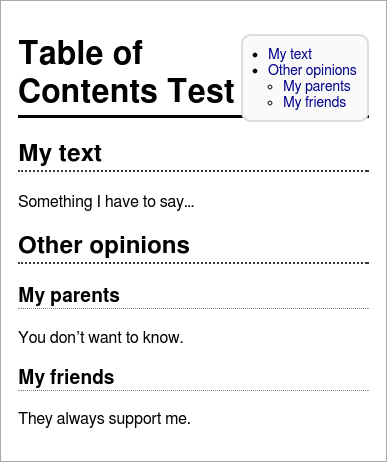
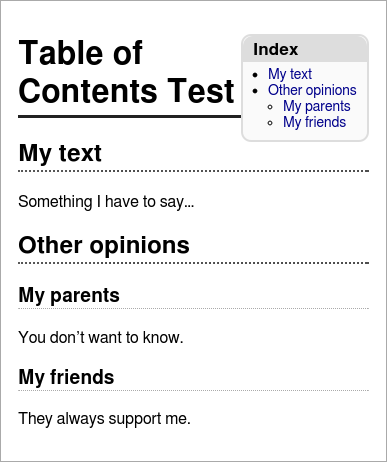
Add header to table of contents.

Changed region(s): [[0.031, 0.0606, 0.9612, 0.303], [0.6512, 0.303, 0.9302, 0.3333]]

diff --git a/src/doc/toc.html b/src/doc/toc.html
@@ -2,8 +2,10 @@
 <html lang="en">
   <head>
     <title>Table of Contents Test</title>
-    <meta charset="UTF-8" /><link rel="stylesheet" type="text/css" href="https://gitcdn.link/repo/alinex/node-report/master/var/src/style/default.css" /><link rel="stylesheet" type="text/css" href="https://cdn.rawgit.com/alinex/node-report/master/var/src/style/default.css" />  </head>
-  <body><div id="page"><p><ul class="table-of-contents">
+    <meta charset="UTF-8" />
+    <style type="text/css">html{background:#ddd;padding:20px}body{font-family:"Helvetica Neue",Helvetica,"Segoe UI",Arial,freesans,sans-serif,"Apple Color Emoji","Segoe UI Emoji","Segoe UI Symbol";font-size:16px;line-height:1.2;word-wrap:break-word}div#page{border:1px solid #aaa;box-shadow:0 8px 16px 0 rgba(0,0,0,0.4),0 12px 40px 0 rgba(0,0,0,0.4);max-width:800px;display:inline-block;background:#fff;padding:17px;overflow:auto}div#page > h1{margin-top:0}h1{border-bottom:3px solid #222;padding-bottom:5px}h2{border-bottom:2px dotted #222;padding-bottom:3px}h3{border-bottom:1px dotted #aaa;padding-bottom:2px}a{color:#00008b}dt{font-weight:bold;margin-top:8px}blockquote{border:1px solid #eee;border-radius:3px;border-left:5px solid color-blue;padding:15px;margin:0}img{vertical-align:middle}.emoji{height:1em}abbr,acronym{border-bottom:dotted 1px}table{border-collapse:collapse;border-spacing:0;display:block;width:100%;overflow:auto;word-break:normal;word-break:keep-all;}table th,table td{padding:6px 13px;border:1px solid #ddd}table th{background-color:rgba(0,0,0,0.04);font-weight:bold;border-bottom:3px solid #999}table tr{background-color:#fff;border-top:1px solid #ccc;}table tr :nth-child(2n){background-color:rgba(0,0,0,0.04)}code,tt{background-color:#fafafa;border-radius:4px;font-size:85%;margin:0;padding:.2em 0}pre{background-color:#fafafa;border-radius:10px;border:1px solid #a4a4a4;font-size:85%;margin:20px;padding:10px;counter-reset:line;}pre code,pre tt{background:none;}pre code:before,pre tt:before{counter-increment:line;content:counter(line);min-width:35px;display:block;float:left;text-align:right;padding-right:5px;color:#808080;-webkit-touch-callout:none;user-select:none;-webkit-user-select:none}pre.language{max-height:280px;padding-top:30px;}pre.language header{font-weight:bold;background:#fafafa;margin:-30px -10px 5px -10px;padding:5px 15px}pre.language.bash header,pre.language.coffeescript header,pre.language.js header,pre.language.sh header,pre.language.sql header{background:#f0ad4e}pre.language.json header,pre.language.yaml header{background:#61b961}pre.language.handlebars header,pre.language.markdown header{background:#76abca}.table-of-contents{border:2px solid #ddd;border-radius:10px;float:right;margin-top:0;padding:10px 10px 10px 25px;background:#fafafa;font-size:90%;}.table-of-contents header{font-weight:bold;font-size:120%;display:block;background:#ddd;margin:-10px -10px 4px -25px;border-top-left-radius:10px;border-top-right-radius:10px;padding:3px 10px}.table-of-contents ul{padding-left:15px}.table-of-contents a{text-decoration:none}div.detail,div.info,div.warning,div.alert{padding:30px 10px 6px 10px;margin:5px 0 8px 0;border-radius:3px;}div.detail >p,div.info >p,div.warning >p,div.alert >p{margin-bottom:0}div.detail header,div.info header,div.warning header,div.alert header{font-weight:bold;position:absolute;margin-top:-30px;margin-left:-10px;padding:3px 20px 3px 10px;border-bottom-right-radius:18px}div.detail{background-color:#fafafa;border:2px solid #ddd;padding-top:0}div.info{background-color:#9f9;border:2px solid #6d6;}div.info header{background-color:#6d6}div.warning{background-color:#fc9;border:2px solid #e86;}div.warning header{background-color:#e86}div.alert{background-color:#f99;border:2px solid #c00;}div.alert header{background-color:#c00;color:#fff}.text-red{color:#d13f19}.text-green{color:#2ecc40}.text-yellow{color:#ffdc00}.text-blue{color:#0074d9}.text-magenta{color:#f0f}.text-cyan{color:#0ff}.text-gray{color:#aaa}.bg-white{background-color:#fff}.center{text-align:center}.left{float:left}.right{float:right}.hide{display:none}.spacing{padding:10px}</style>
+  </head>
+  <body><div id="page"><p><ul class="table-of-contents" aria-hidden="true"><header>Index</header>
 <li><a href="#my-text">My text</a></li>
 <li><a href="#other-opinions">Other opinions</a>
 <ul>
